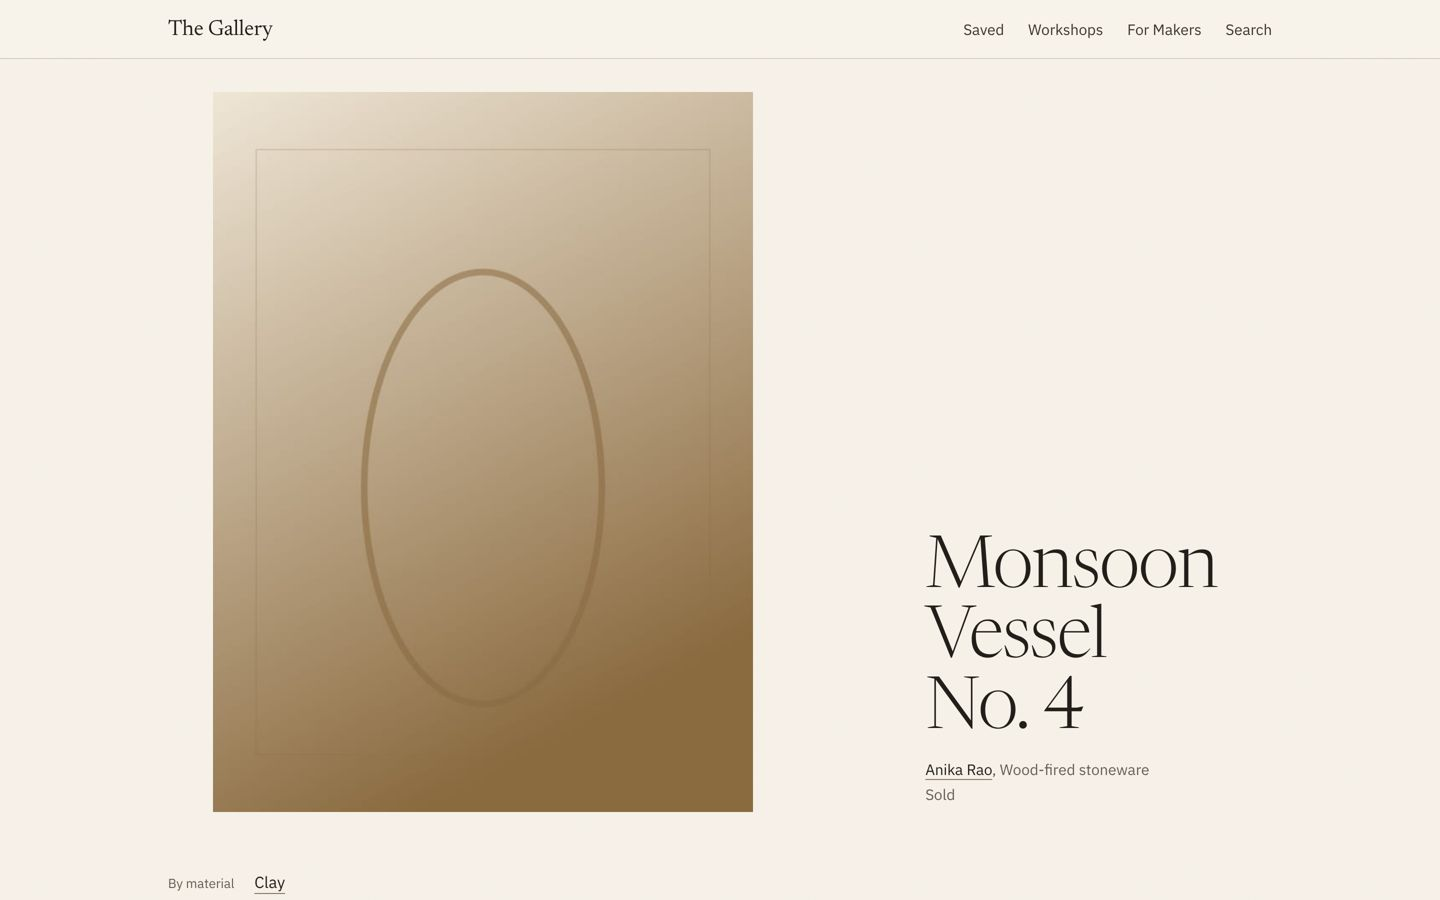
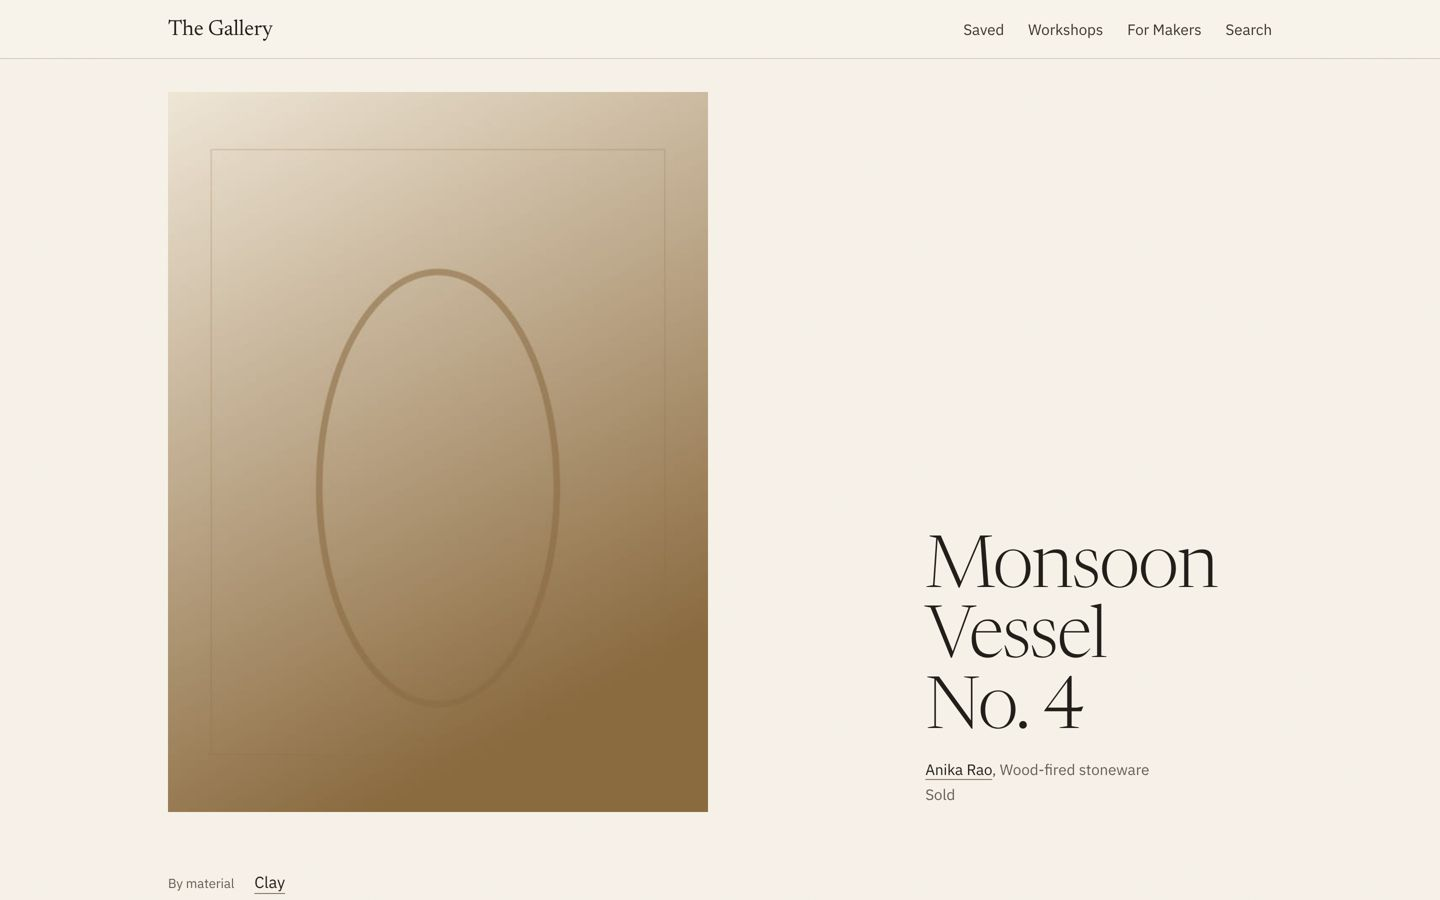
Wave 5 receipt: final suites (phone 78+1, desktop 78+1), axe 0 on 33 states, reflow 16/16, before/after renders
Claude-Session: https://claude.ai/code/session_01LviQH1Kx1Wn6BuKHtWMjJ4

Changed region(s): [[0.4688, 0.0933, 0.5312, 0.9022], [0.0938, 0.1244, 0.1562, 0.9022], [0.2188, 0.28, 0.4062, 0.6844]]

diff --git a/doctrine/receipts/WAVE5-FIRST-IMPRESSION-2026-11-09.md b/doctrine/receipts/WAVE5-FIRST-IMPRESSION-2026-11-09.md
@@ -1,0 +1,132 @@
+# Wave 5 — first impression: receipt, 2026-11-09
+
+**Governor's decisions:** A2 (targeted system change), B2 (public navigation), C later. The design pass was
+approved ("Looks good. Approved."). The app icon is option 4, the stacked wordmark.
+See `GOVERNOR-DECISIONS-2026-11-09-WAVE5.md`.
+
+**Branch:** `claude/great-edison-33c2ex`.
+**Build proved:** `njBeMoHo-oqzbxTCKElVB1`, application code at `8bb15d2`. Later commits change only
+`public/` CSS, journeys, documents and receipts; Next does not compile any of those. The
+server's BUILD_ID was checked before every run (`e2e/run-hosted.sh`).
+**Before:** the live default-branch tip `5a23906`, built in a worktree as `C019BiWtkr74F0tTHwmhF`.
+
+## What changed
+
+- **System (A2):** `tokens.css` and `system.css`, with `ux/reference/interface/` copies kept byte-identical and now
+  guarded by a journey. Changes:
+  - a serif wordmark;
+  - mono for dimensions and price only;
+  - sentence-case sans labels with a 12 px floor;
+  - a roman serif section line;
+  - display type 42/56/72 px, and a "monument" step of 52/76/104 px;
+  - one filled action per screen (ink ground, paper text);
+  - no arrow glyph anywhere;
+  - an empty state in words only;
+  - a colophon;
+  - a Menu sheet;
+  - the work page's pinned action bar.
+
+  The palette is unchanged. `ux/INTERFACE_FOUNDATION.md` carries a dated amendment recording all of this.
+- **Navigation (B2):**
+  - Public pages carry the wordmark, Search and the Menu. The Menu is a popover, with a class-toggle fallback where
+    the Popover API is missing; focus moves into it, and Escape, leaving the sheet or tapping a link closes it.
+  - From 900 px, Saved, Workshops and For Makers sit inline.
+  - The bottom bar renders in the Studio only.
+- **Pages (from the approved pass):**
+  - Entrance: an empty site and a populated one.
+  - Work page:
+    - the maker is named once, as the link to their gallery;
+    - "Message {name}" is pinned on a phone;
+    - "Updated N ago";
+    - a segmented image line.
+  - Maker's gallery: name at display size, their own words in roman, one column on a phone, and contact with the
+    GAL-C1 meaning kept.
+  - For Makers, About, Participation, Privacy, Saved, Workshops, Search, Not found, the work ending, and the
+    maker-door pages: all on the same header, empty state and colophon.
+- **Rooms:**
+  - Browse offers only materials with work on view.
+  - An empty room leads only to a room with work. The old "next" pointed two empty rooms at each other.
+- **Studio:**
+  - A designed photo picker that clears its line when the form resets.
+  - "Remove image 1" and "Remove WhatsApp" in full.
+  - One filled action per screen: Publish, and Add a work.
+- **Installable:** `src/app/manifest.ts`, icons at 192/512 (any and maskable), an Apple touch icon at 180 and a
+  favicon. The middleware skips them.
+
+## Two deviations from the approved pass, and why
+
+1. **The contact line on the maker's gallery.**
+   - The pass showed "Price, delivery and payment are agreed between you."
+   - That drops returns and disputes from GAL-C1, which is fixed in meaning, so it was not built as drawn (GAL-L0027).
+   - Built: "You're talking to {name} directly. Payment, delivery, returns and any dispute are arranged between you;
+     The Gallery takes no part in the sale."
+   - The contact sheet keeps the governed sentence word for word.
+2. **The status on tiles.**
+   - The pass showed tiles carrying only "Sold" or a price.
+   - P-11 (status surfaces include Browse and the maker gallery) and GAL-PR-02 ("stay visible with their status") would
+     have been narrowed silently.
+   - Built: every status except "Available" is said on the wall; for an available work, a stated price stands in.
+   - The independent review raised this (its item 7).
+
+## Proof
+
+| Check | Result | Where |
+|---|---|---|
+| **Phone suite, final** | **78 passed, 1 skipped (a desktop-only check), 0 failed**: build `njBeMoHo-oqzbxTCKElVB1`, CSS and journeys at `f83450f` plus the design-pass fixes, 22.4 min | `phone4.log` |
+| **Desktop suite, final** | **78 passed, 1 skipped (the phone-only Menu check), 0 failed**: same state, 20.8 min | `desktop3.log` |
+| Earlier green runs, superseded | phone 77+1 (run 3), desktop 77+1 (run 2), before the byte-identity journey and the design-pass CSS | `phone3.log`, `desktop2.log` |
+| Earlier failed runs | see GAL-L0029 (upload wait), and the first phone run (journeys still on old copy) | ledger |
+| Independent code review | 1 BLOCKER and 11 SHOULD-FIX items, all fixed or resolved in `8bb15d2`. Item 11 (foundation document) is resolved by amendment. Item 12's weak checks were strengthened. | this receipt |
+| Design skills on the result | `design-skills:design-critique`, `vectorlab-ux-skills:anti-slop`, `vectorlab-ux-skills:empty-states`, by an agent that did not build it; 2 MUSTs (material rail) fixed; the third MUST was checked and is not a change | below |
+| axe-core 4.10.2, WCAG 2.0/2.1/2.2 A and AA tags | 0 violations, run again on the final state, across 33 states (17 at 390 px including the open menu and the contact sheet, 16 at 1440 px) | `a11y.mjs` |
+| Reflow at 320 px | 16 of 16 pages, no horizontal scroll | same |
+| Keyboard, work page | skip link > wordmark > Search > Menu > images > maker > Save > Message > colophon; every control shows a focus ring | same |
+| Gates / drill / check | gates 5 of 5; drill 89 PASS, 0 RED; orientation check PASS | `scripts/doctrine-*.py` |
+| Reference copies | `cmp` identical; the journey proved to fail on a planted one-line drift | GAL-L0030 |
+| Upload timing (control) | 8 uploads each: Wave 5 5.9–7.4 s, live build 6.4–7.9 s | GAL-L0029 |
+
+**Design pass on the build:**
+- MUST, fixed: the browse rail at 390 px (two tabs pushed to opposite edges) and at 1440 px (its rule wider than the
+  grid).
+- Also taken:
+  - the featured image left on the grid;
+  - no pale bands beside a work's image;
+  - a lone work spans the wide column.
+- Checked, not changed: a sold work keeps "Message {name}". This is the pre-Wave 5 behaviour; a sold work defaults the
+  message to "Commission something like this", and no decision moves.
+- LATER (not in this change):
+  - About's first sentence echoes the empty entrance;
+  - About ends with no forward link;
+  - the progress line's inactive segments stay `--stone-strong`. They are darker than the pass's pale tone because
+    WCAG 1.4.11 needs 3:1 for the only visual cue.
+
+## Renders
+
+- `wave5/renders/before-*.jpg` and `after-*.jpg` at 390 and 1440 px:
+  - entrance, the empty entrance, work, maker gallery, For Makers, an empty material, About and the empty browse page;
+  - "empty" means every published work taken down for the render and restored exactly afterwards (1 of 1 restored,
+    `updated_at` included).
+- `wave5/sheet-ba-390.jpg` and `sheet-ba-1440.jpg`: before on top, after below.
+- The images in the test project are synthetic placeholders.
+- The approved pass is `wave5-design-pass/`; its objects are rendered 3D pieces and no one's work.
+
+## SEEN / NOT SEEN / UNKNOWN
+
+- **SEEN:**
+  - both suites green on the served build;
+  - axe, reflow and keyboard as above;
+  - before/after renders from the two served builds;
+  - the manifest and icons served with matching pixel sizes (journey).
+- **NOT SEEN:**
+  - any of this on the live site (not merged);
+  - an install prompt on a physical Android phone;
+  - the Menu on a browser without the Popover API (the fallback is read in code; Chromium only here).
+- **UNKNOWN:**
+  - whether the live project has an operator account;
+  - the live Supabase auth settings (403 from this environment);
+  - the `DOCTRINE_READ_TOKEN` (CI stays red on that check alone).
+
+## Ledger
+
+GAL-L0026 (no design review before Wave 5), GAL-L0027 (GAL-C1 meaning kept), GAL-L0028 (picker selector),
+GAL-L0029 (upload wait), GAL-L0030 (reference copy drift).
